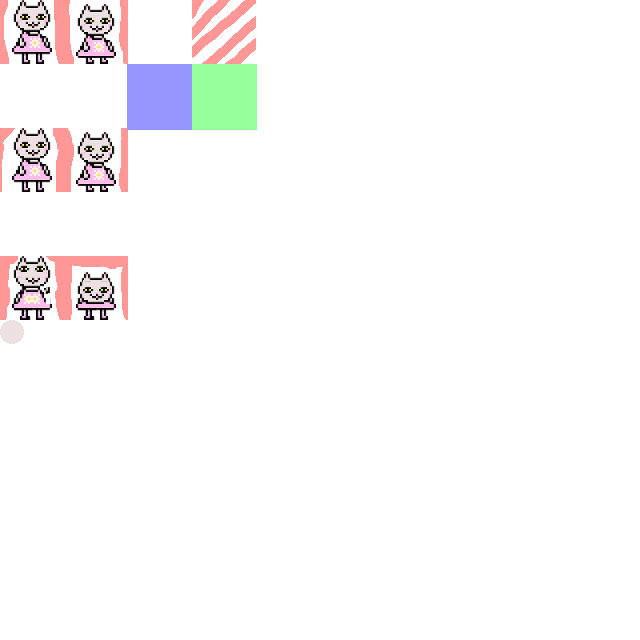
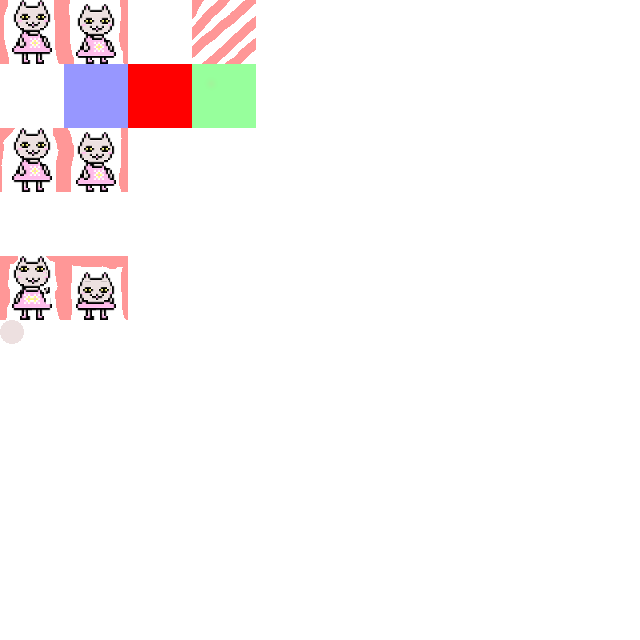
arrumado assets

Changed region(s): [[0.0938, 0.0938, 0.3125, 0.2188], [0.375, 0.1875, 0.4062, 0.2188]]

diff --git a/src/backgroundblock.cpp b/src/backgroundblock.cpp
@@ -74,7 +74,7 @@ void BackgroundBlock::setupAnimations(){
 	this->addAnimation(1, 192, 0, "NONE", 64,64, Vector2 (0,0));
 	this->addAnimation(1, 192, 64, "BREAKABLE", 64,64, Vector2 (0,0));
 	this->addAnimation(1, 128, 64, "UNBREAKABLE", 64,64, Vector2 (0,0));
-	this->addAnimation(1, 192, 0, "BUBLE", 64,64, Vector2 (0,0));
+	this->addAnimation(1, 64, 64, "BUBLE", 64,64, Vector2 (0,0));
 }
 
 void BackgroundBlock::takeDamage(float damage){
